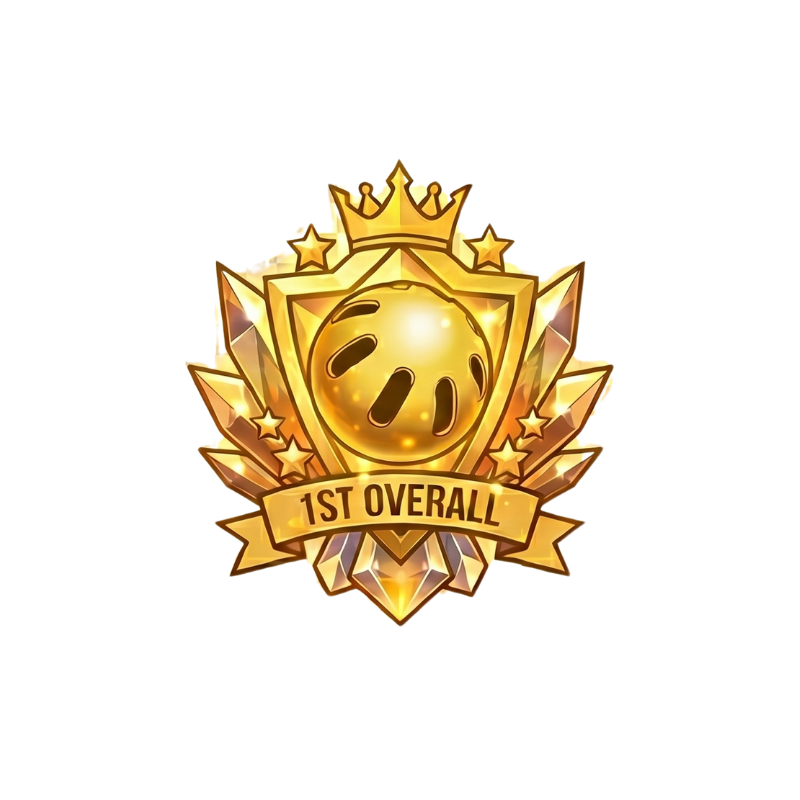
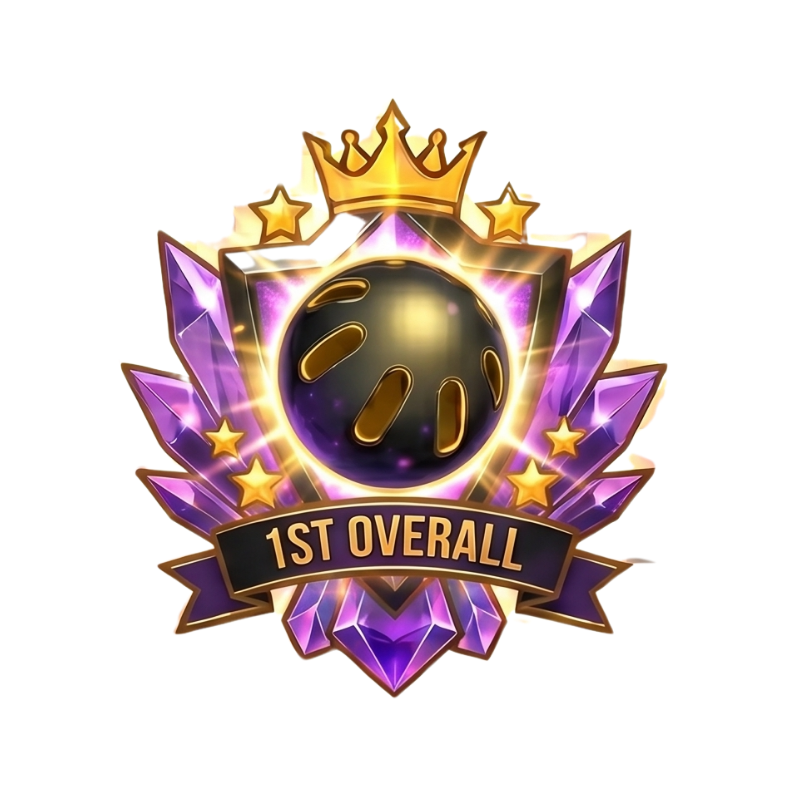
New rank-1/2/3 badges + retuned glow palette
Replaces the metallic gold/silver/bronze badges with the new gemstone
+ gold treatment (amethyst / emerald / ruby). 800x800 PNGs with proper
alpha so they composite cleanly over avatars.

Glow tokens retuned to match each badge's gemstone identity:
- Rank 1: gold → amethyst violet (170,100,235)
- Rank 2: icy blue → emerald (60,200,130)
- Rank 3: bronze → ruby red (225,65,75)

Fallback gradients (rendered if a badge image 404s) updated to the
matching gemstone palette so the broken-image state stays on-brand.

diff --git a/src/tier-badges.jsx b/src/tier-badges.jsx
@@ -19,27 +19,34 @@ const TIERS = [
     match: (r) => r === 1,
     image: '/badges/rank-1.png',
     label: '1st Overall',
-    glowColor: '245, 195, 0',          // gold
+    // Amethyst + gold gemstone aesthetic. Glow leans saturated violet so it
+    // reads off any background — the gold accents on the badge already
+    // carry the metallic warmth, so we don't double up there.
+    glowColor: '170, 100, 235',        // amethyst violet
     glowMin: 16, glowMax: 30, glowPeriod: '2s',
-    fallback: { bg: 'linear-gradient(135deg, #F5C300, #D69A00)', fg: '#2A1A00', border: '#F5C300', labelTop: '#1', labelBottom: 'ELITE' },
+    fallback: { bg: 'linear-gradient(135deg, #A855F7, #6B21A8)', fg: '#F5EBFF', border: '#A855F7', labelTop: '#1', labelBottom: 'ELITE' },
   },
   {
     id: 'rank-2',
     match: (r) => r === 2,
     image: '/badges/rank-2.png',
     label: '2nd Overall',
-    glowColor: '170, 210, 255',        // icy blue
+    // Emerald + gold. Punchy green so the glow reads as the gemstone, not
+    // the ornate gold trim.
+    glowColor: '60, 200, 130',         // emerald
     glowMin: 14, glowMax: 26, glowPeriod: '2.3s',
-    fallback: { bg: 'linear-gradient(135deg, #CBD5E1, #94A3B8)', fg: '#1F2937', border: '#CBD5E1', labelTop: '#2', labelBottom: 'ELITE' },
+    fallback: { bg: 'linear-gradient(135deg, #10B981, #065F46)', fg: '#ECFDF5', border: '#10B981', labelTop: '#2', labelBottom: 'ELITE' },
   },
   {
     id: 'rank-3',
     match: (r) => r === 3,
     image: '/badges/rank-3.png',
     label: '3rd Overall',
-    glowColor: '210, 140, 70',         // bronze/copper
+    // Ruby/garnet — a brighter red than the badge's deep crimson so the
+    // pulse stays visible against light surfaces.
+    glowColor: '225, 65, 75',          // ruby
     glowMin: 12, glowMax: 22, glowPeriod: '2.6s',
-    fallback: { bg: 'linear-gradient(135deg, #D97706, #92400E)', fg: '#FFF7ED', border: '#D97706', labelTop: '#3', labelBottom: 'ELITE' },
+    fallback: { bg: 'linear-gradient(135deg, #DC2626, #7F1D1D)', fg: '#FEF2F2', border: '#DC2626', labelTop: '#3', labelBottom: 'ELITE' },
   },
   {
     id: 'top-10',
